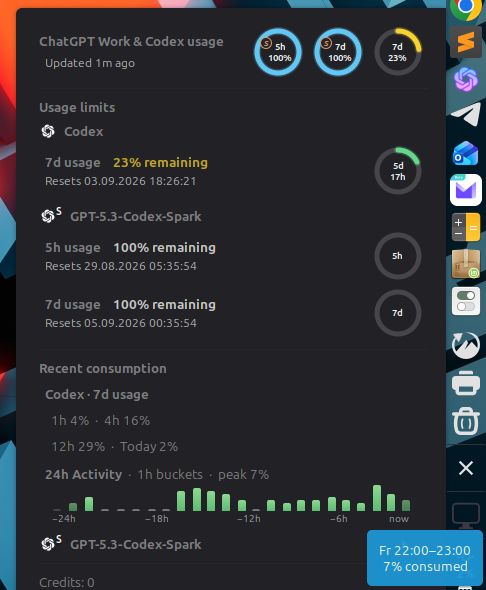
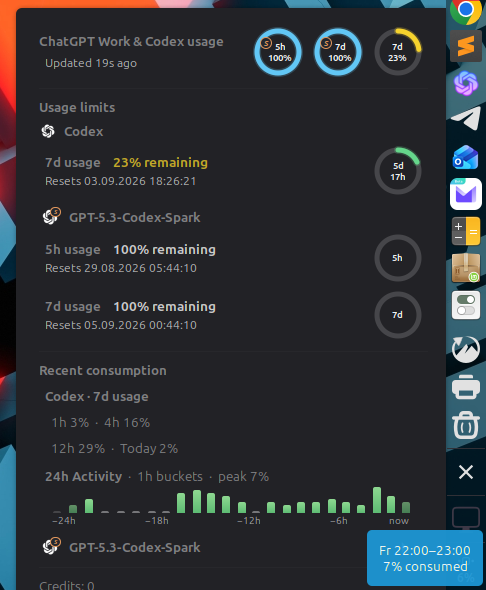
Unify Spark badges across applet views

diff --git a/applet.js b/applet.js
@@ -39,6 +39,7 @@ const POPUP_EXPANDED_RIGHT_INSET = 10;
 const POPUP_EXPANDED_ARROW_INSET = 25;
 const QUOTA_RING_SIZE = 52;
 const COMPACT_QUOTA_RING_SIZE = 40;
+const SPARK_BADGE_COLOR = "#f2a15f";
 
 class ChatGptUsageApplet extends Applet.Applet {
     constructor(metadata, orientation, panelHeight, instanceId) {
@@ -291,6 +292,19 @@ class ChatGptUsageApplet extends Applet.Applet {
         return /spark/i.test(label) ? "S" : "M";
     }
 
+    _modelBadgeStyle(fontPercent) {
+        return [
+            `font-size: ${fontPercent}%`,
+            "font-weight: bold",
+            "font-style: italic",
+            `color: ${SPARK_BADGE_COLOR}`,
+            "background-color: #25272d",
+            "border: 1px solid rgba(242,161,95,0.92)",
+            "border-radius: 8px",
+            "padding: 0 3px"
+        ].join("; ") + ";";
+    }
+
     _createPanelIcon(limit = null, size = 20) {
         const iconPath = `${this.metadata.path}/icons/chatgpt-white.png`;
         const icon = new St.Icon({
@@ -303,23 +317,21 @@ class ChatGptUsageApplet extends Applet.Applet {
         const badgeText = this._modelBadge(limit);
         if (!badgeText) return icon;
 
-        const actor = new St.BoxLayout({
-            vertical: false,
-            height: size,
-            y_align: Clutter.ActorAlign.CENTER
+        icon.icon_size = size + 2;
+        const actor = new St.Widget({
+            layout_manager: new Clutter.BinLayout(),
+            width: size + 6,
+            height: size + 2
         });
         const badge = new St.Label({
             text: badgeText,
+            x_expand: true,
+            y_expand: true,
+            x_align: Clutter.ActorAlign.END,
             y_align: Clutter.ActorAlign.START
         });
-        badge.style = [
-            "font-size: 75%",
-            "font-weight: bold",
-            "color: white",
-            "text-shadow: 0 1px 2px rgba(0,0,0,0.92)"
-        ].join("; ") + ";";
+        badge.style = this._modelBadgeStyle(45);
         badge.translation_x = -2;
-        badge.translation_y = -2;
         actor.add_child(icon);
         actor.add_child(badge);
         return actor;
@@ -577,16 +589,9 @@ class ChatGptUsageApplet extends Applet.Applet {
                 x_align: Clutter.ActorAlign.START,
                 y_align: Clutter.ActorAlign.START
             });
-            badge.style = [
-                `font-size: ${size < QUOTA_RING_SIZE ? 50 : 60}%`,
-                "font-weight: bold",
-                "font-style: italic",
-                "color: #f2a15f",
-                "background-color: #25272d",
-                "border: 1px solid rgba(242,161,95,0.92)",
-                "border-radius: 8px",
-                "padding: 0 3px"
-            ].join("; ") + ";";
+            badge.style = this._modelBadgeStyle(
+                size < QUOTA_RING_SIZE ? 50 : 60
+            );
             badge.translation_x = size < QUOTA_RING_SIZE ? 6 : 8;
             badge.translation_y = size < QUOTA_RING_SIZE ? 8 : 11;
             actor.add_child(badge);

diff --git a/README.md b/README.md
@@ -46,8 +46,8 @@
   remaining usage, reset times, credits and earned resets.
 - Detects dedicated GPT-5.3-Codex-Spark 5h and 7d quotas automatically when
   they are enabled for the signed-in account; model-specific limits stay in
-  the popup by default, carry a distinct ring badge and can optionally be added
-  to the panel.
+  the popup by default, carry a distinct amber marker and can optionally be
+  added to the panel.
 - Shows paired circular available-quota and reset-countdown indicators for
   every active 5h and 7d window without polling the API more often. Untouched
   100%-remaining cycles stay at their exact full duration until usage begins.
@@ -78,7 +78,7 @@ cd cinnamon-chatgpt-usage
 Then open **System Settings → Applets** and add **ChatGPT Usage** to a panel.
 Requirements: Cinnamon 5.8+, Python 3 and a current
 [Codex CLI](https://learn.chatgpt.com/docs/codex/cli#getting-started) signed in
-with ChatGPT. Version 0.2.4 is tested on Cinnamon 6.6.9 with Codex CLI 0.150.1.
+with ChatGPT. Version 0.2.5 is tested on Cinnamon 6.6.9 with Codex CLI 0.150.1.
 
 Run `./install.sh` again after updates. `./uninstall.sh` removes the applet while
 retaining its settings.

diff --git a/CHANGELOG.md b/CHANGELOG.md
@@ -1,5 +1,10 @@
 # Changelog
 
+## 0.2.5 — 2026-08-29
+
+- Use the same outlined, italic amber Spark badge beside panel and popup labels
+  as in the quota rings, replacing the remaining white `S` markers.
+
 ## 0.2.4 — 2026-08-29
 
 - Keep untouched 100%-remaining reset cycles at their exact full `5h` or `7d`
